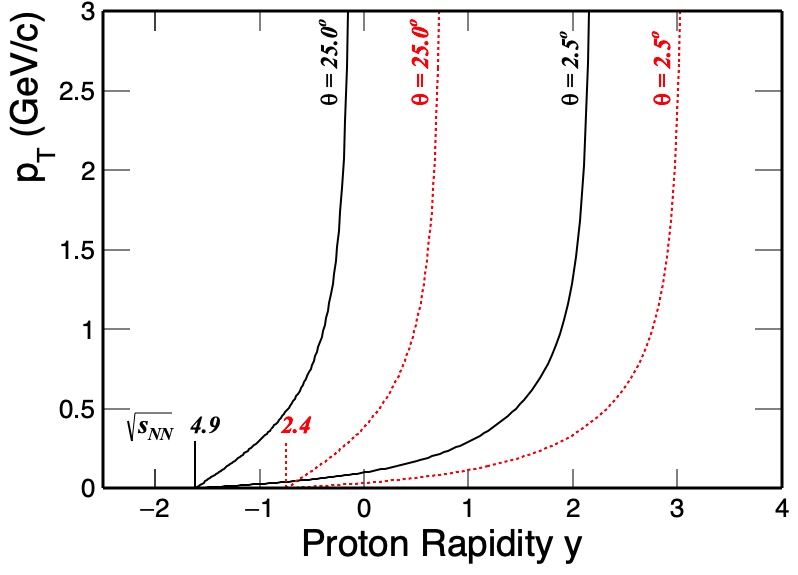
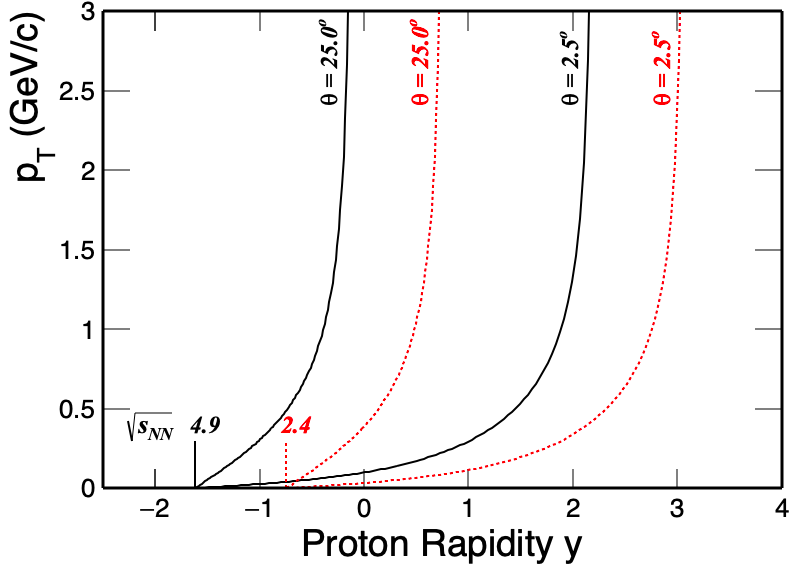
correct for proton mass

diff --git a/Accept/acceptProton.C b/Accept/acceptProton.C
@@ -16,6 +16,7 @@ void acceptProton()
   style();
   const Double_t T_lab[2] = {11, 1.25};  // kinetic energy region
   const Double_t m = 0.9315;  // u
+  const Double_t mp = 0.93827;
   TLorentzVector targ(0,0,0,m);
 
   Double_t E[2], E_cms[2];
@@ -66,7 +67,7 @@ void acceptProton()
    for(int i=0;i<2;i++) {
      for(int j=0;j<2;j++) {
        fun[i][j] = new TF1(Form("fun_%d",i),Perp,x1,x2,3);
-       fun[i][j]->SetParameters(m,eta_ref[j],y0[i]);
+       fun[i][j]->SetParameters(mp,eta_ref[j],y0[i]);
        fun[i][j]->SetRange(eta_ref[j]-y0[i], -y0[i]);
        fun[i][j]->SetLineStyle(i+1);
        fun[i][j]->SetLineColor(i+1);
